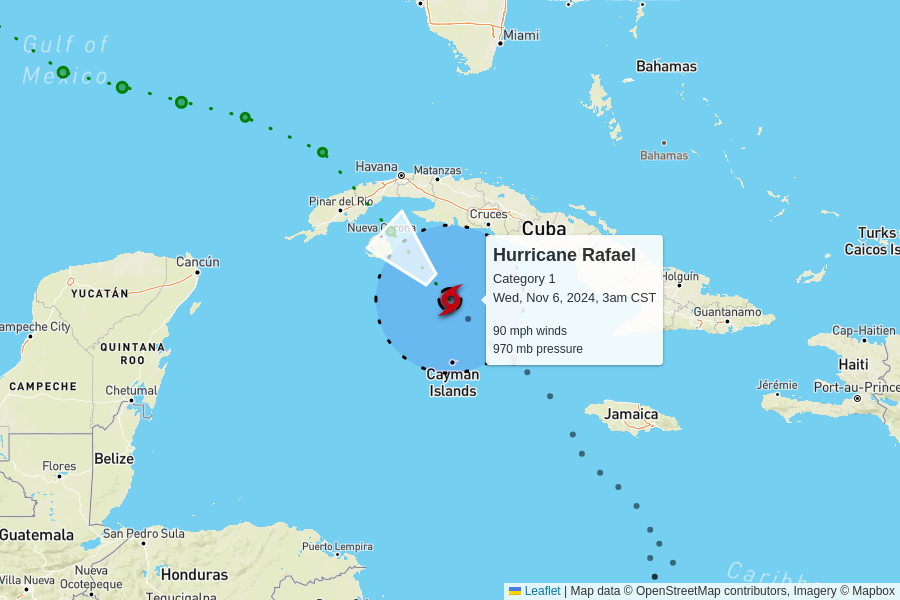
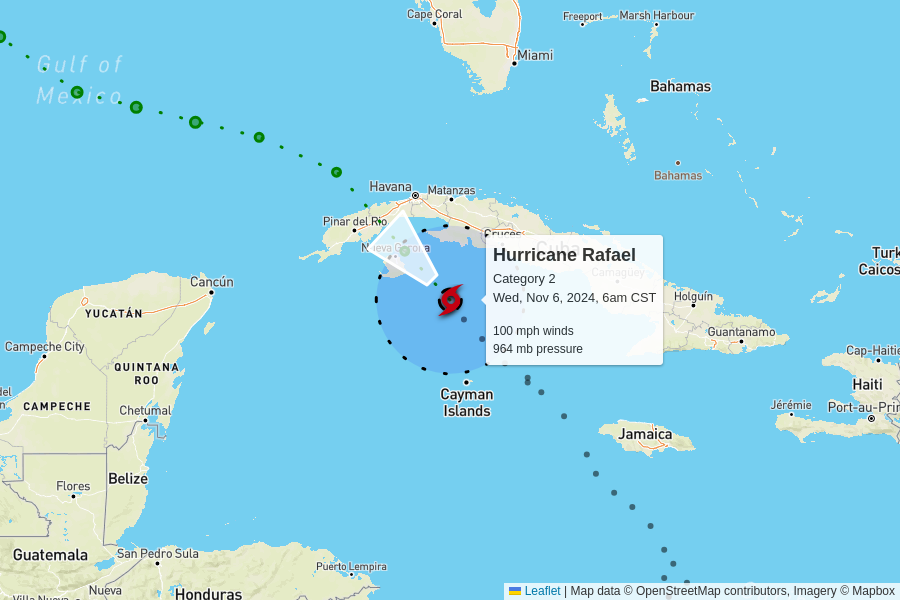
automatic update

diff --git a/docs/index.html b/docs/index.html
@@ -99,10 +99,10 @@
 
     <table>
       <tr>
-        <td colspan="6" class="storm category-1" >
+        <td colspan="6" class="storm category-2" >
           <h2>
-            Hurricane Rafael - Category 1
-            <p class="updated">last updated <span data-time>2024-11-06T09:00:00.000Z</span></p>
+            Hurricane Rafael - Category 2
+            <p class="updated">last updated <span data-time>2024-11-06T12:00:00.000Z</span></p>
           </h2>
         </td>
       </tr>
@@ -117,8 +117,8 @@
       </tr>
       <tr>
         <td class="spacer"></td>
-        <td>90 mph<br>+5 mph since last update</td>
-        <td>970 mb<br>-7 mb since last update</td>
+        <td>100 mph<br>+10 mph since last update</td>
+        <td>964 mb<br>-6 mb since last update</td>
         <td>
           14 mph to the northwest
           <br/>
